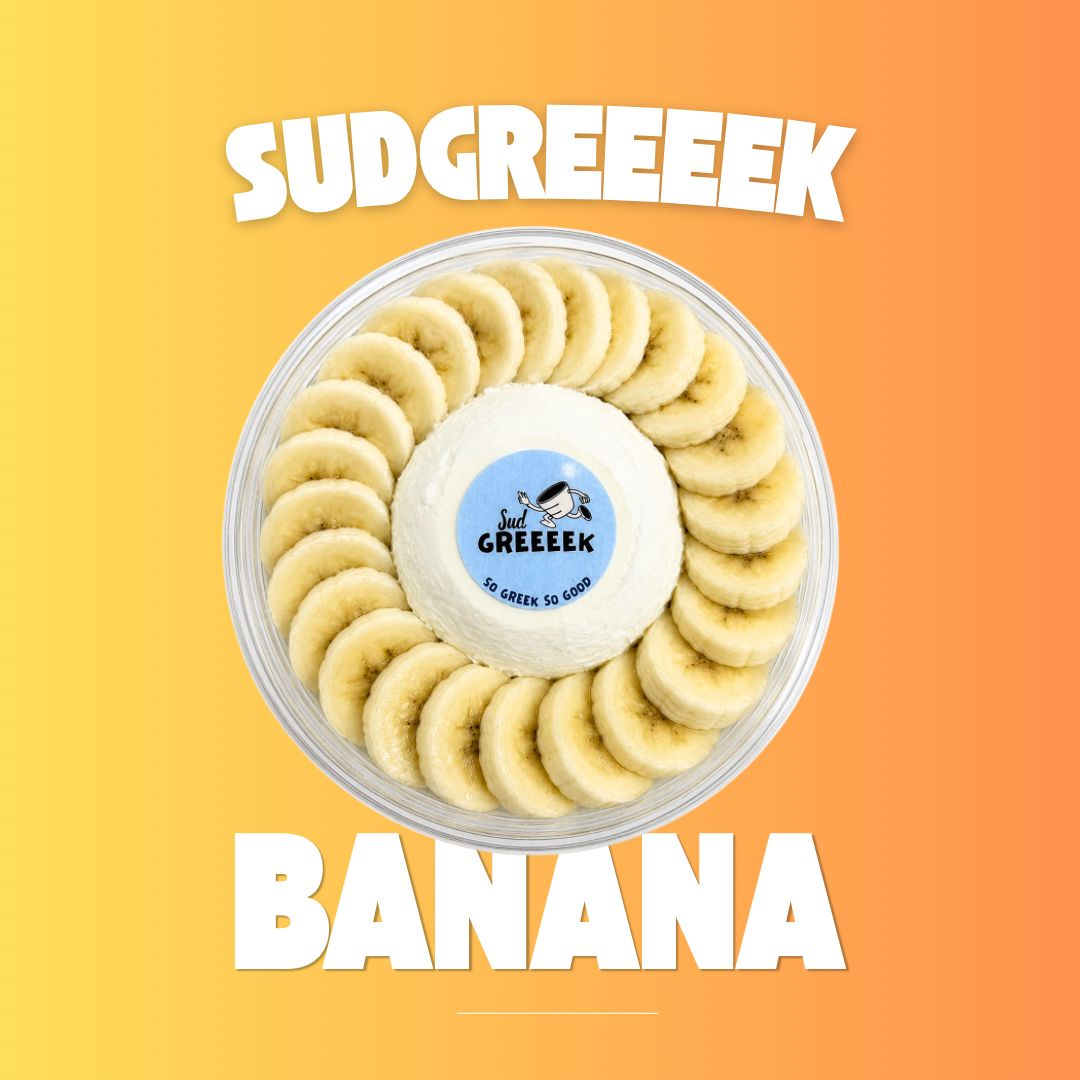
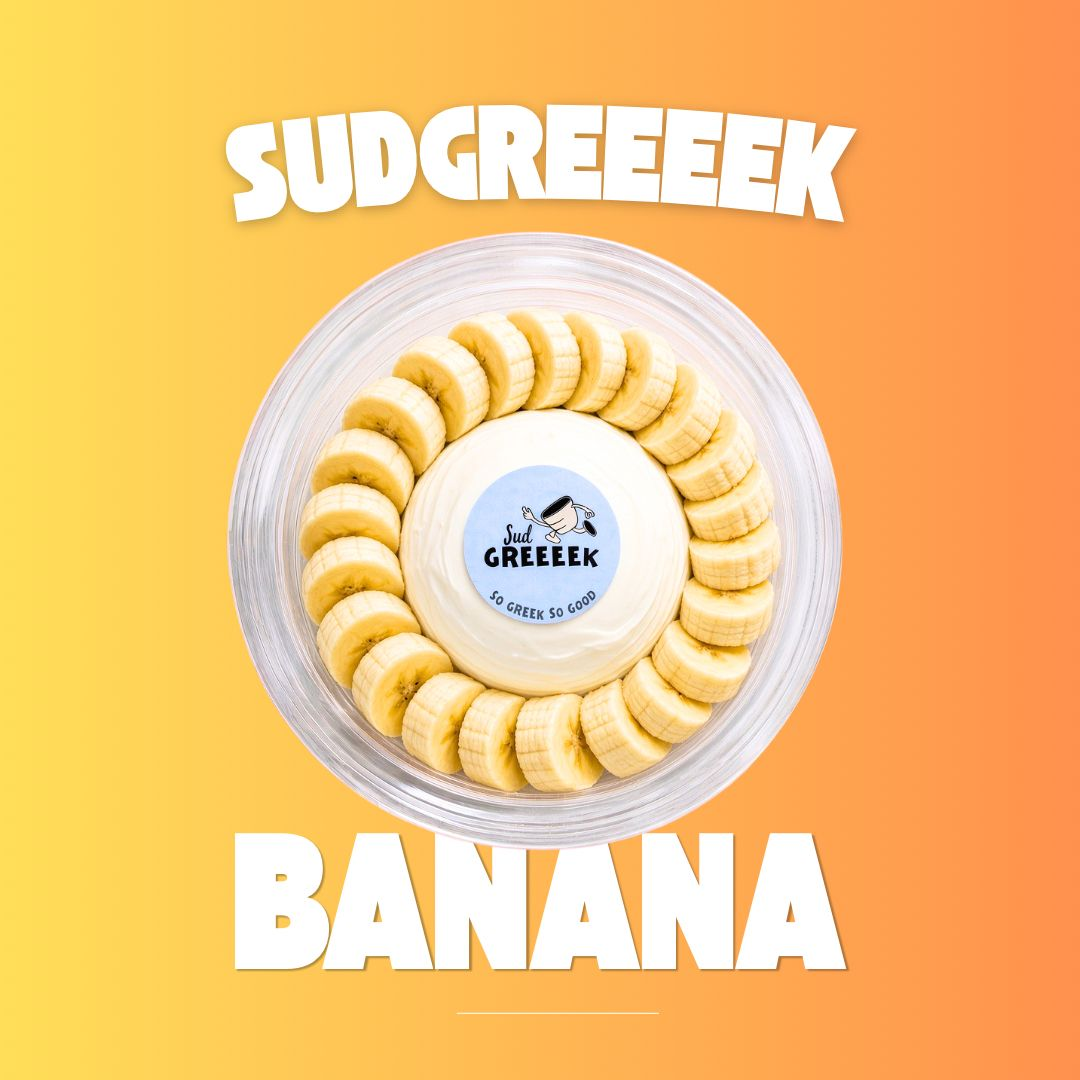
Replace the Banana menu photo.

Changed region(s): [[0.1833, 0.1833, 0.7944, 0.7944]]

diff --git a/index.html b/index.html
@@ -162,13 +162,13 @@
             </div>
           </article>
           <article class="card" data-q="banana กล้วย 79">
-            <div class="card-photo"><img src="img/banana.jpg" width="1080" height="1080" alt="โยเกิร์ตกรีกกับกล้วย" loading="lazy"></div>
+            <div class="card-photo"><img src="img/banana.jpg?v=2" width="1080" height="1080" alt="โยเกิร์ตกรีกกับกล้วย" loading="lazy"></div>
             <div class="card-body">
               <h3>Banana</h3>
               <p>กรีก + กล้วย</p>
               <div class="card-row">
                 <strong class="price">฿79</strong>
-                <button type="button" class="btn js-add" data-id="banana" data-name="Banana" data-detail="กรีก + กล้วย" data-price="79" data-img="img/banana.jpg">+เพิ่มลงตะกร้า</button>
+                <button type="button" class="btn js-add" data-id="banana" data-name="Banana" data-detail="กรีก + กล้วย" data-price="79" data-img="img/banana.jpg?v=2">+เพิ่มลงตะกร้า</button>
               </div>
             </div>
           </article>
